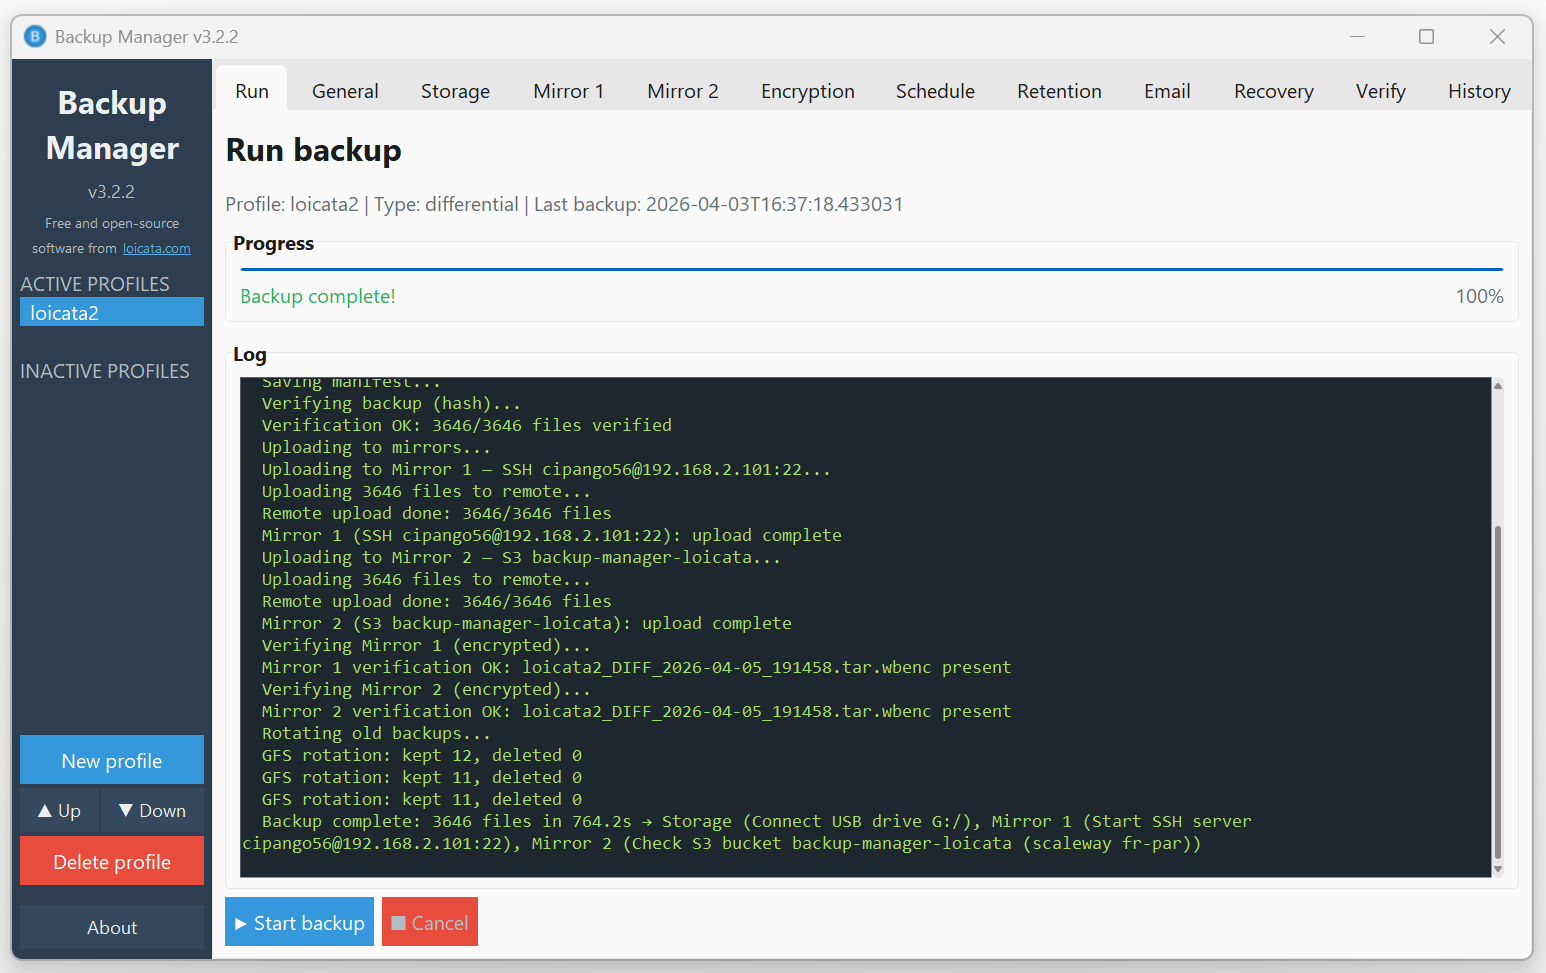
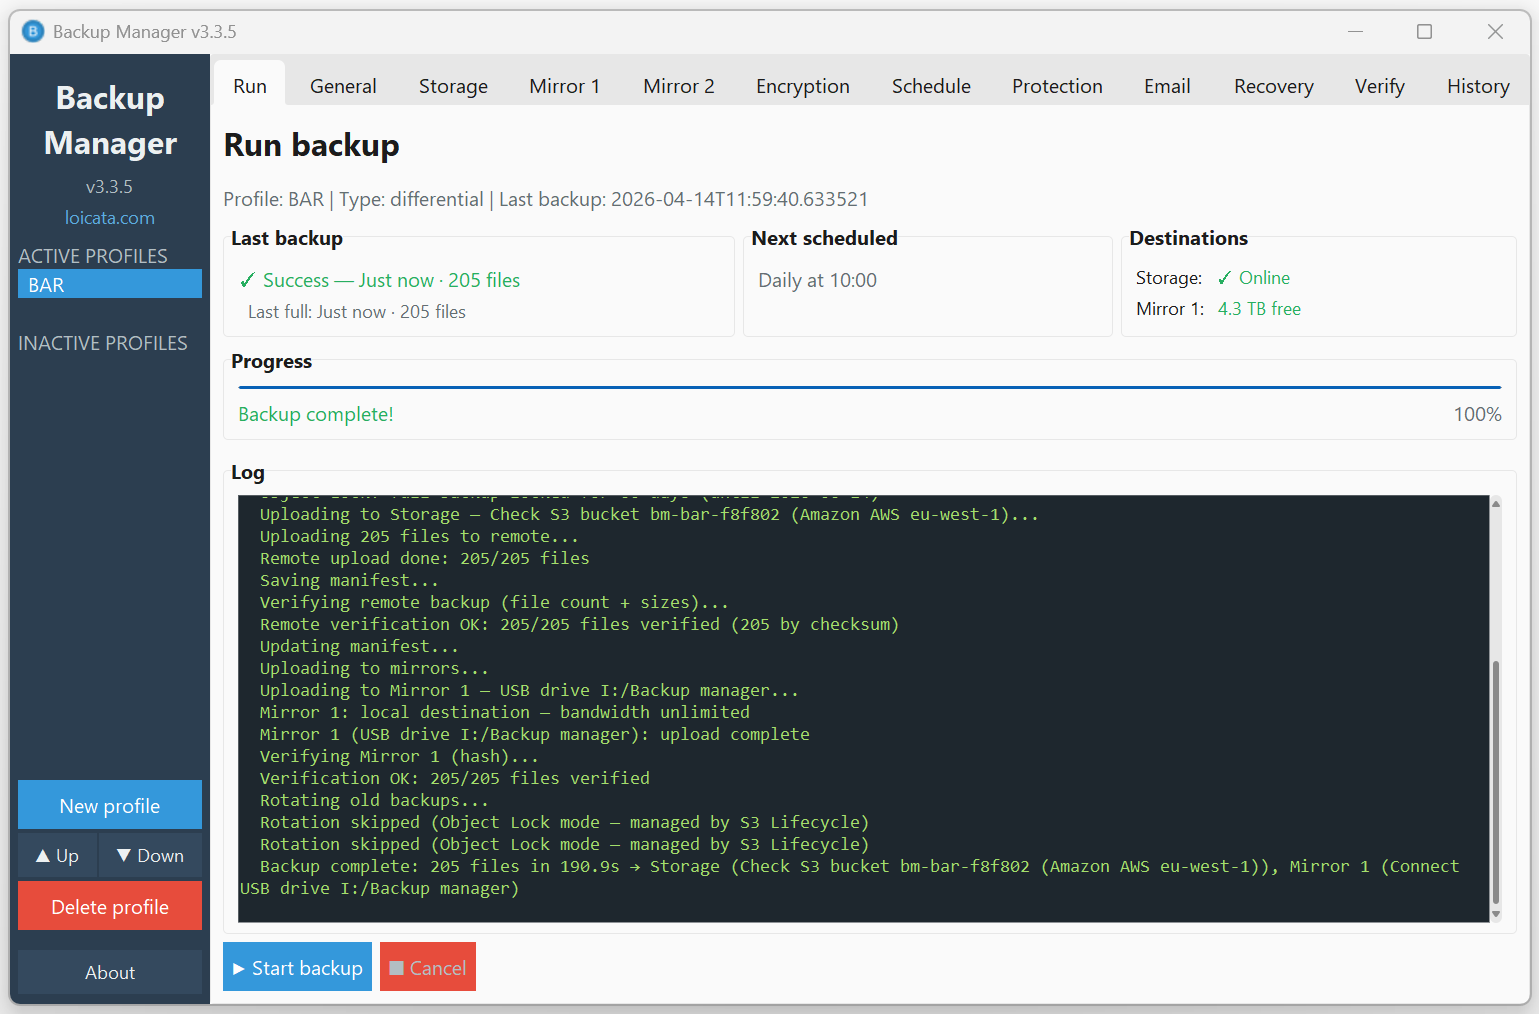
docs(readme): update screenshots — run, general, mirror tabs
Replace old anti-ransomware screenshot with current UI captures:
- Wizard (kept) + Run backup (new) in top row
- General settings (new) + Mirror config (new) in bottom row

diff --git a/README.md b/README.md
@@ -15,9 +15,11 @@ A production-grade, security-focused Windows backup application with **anti-rans
 
 Backup Manager offers two distinct operating modes to match your security needs:
 
-| Setup Wizard | Anti-Ransomware Backup Complete |
-|:------------:|:-------------------------------:|
-| ![Wizard](assets/screenshots/wizard_mode_choice.png) | ![Anti-Ransomware](assets/screenshots/anti_ransomware_backup.png) |
+| Setup Wizard | Run Backup |
+|:------------:|:----------:|
+| ![Wizard](assets/screenshots/wizard_mode_choice.png) | ![Run](assets/screenshots/run_backup.png) |
+| **General Settings** | **Mirror Configuration** |
+| ![General](assets/screenshots/general_tab.png) | ![Mirror](assets/screenshots/mirror_tab.png) |
 
 ### Classic Mode
 
